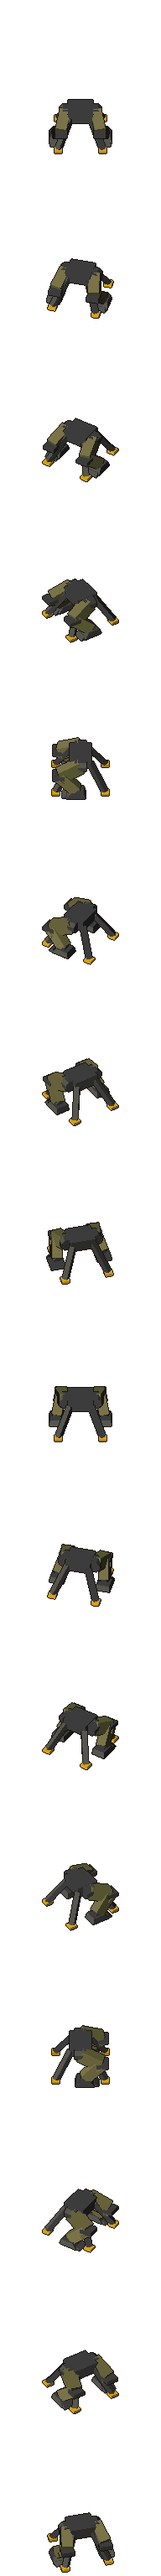
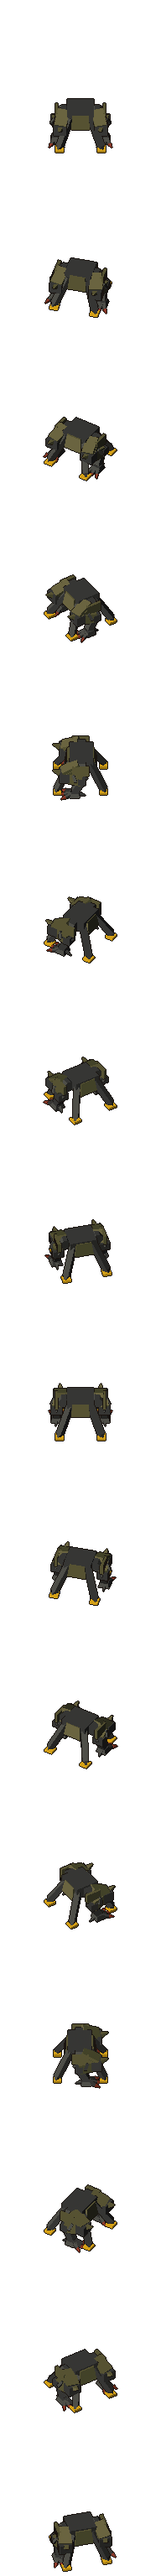
Titan: scarier war-machine redesign (live, deployed, wading, wreck)
Reverse-jointed legs with knee spurs, pistons and taloned feet; hunched
torso with a low wedge head and glowing red eye slits; horned pauldrons;
six-tube rocket pods with red warheads; a heavier cannon with collars,
fume extractor and slotted brake; dorsal fins and swept exhausts. Darker
gunmetal plate with rust accents. Same cells, contact line, scale and
layers, so no engine change. Wreck re-derived from the new live sheets.

diff --git a/tools/sprites/render_titan.py b/tools/sprites/render_titan.py
@@ -61,11 +61,13 @@ def hexc(s: str) -> tuple[int, int, int]:
 
 # Flat ramps, dark → light. Olive armor, dark steel, team-tint gray, accents.
 RAMPS: dict[str, list[tuple[int, int, int]]] = {
-    # Locked to the Walker sheet (walker-move.png): brown-olive plate, dark steel.
-    "armor": [hexc(c) for c in ("#242418", "#3c3c24", "#545430", "#66613a", "#7a7249")],
-    "steel": [hexc(c) for c in ("#181818", "#2a2a28", "#3c3c3c", "#56564f")],
+    # The Walker's brown-olive plate, taken a step darker: a gunmetal war machine.
+    "armor": [hexc(c) for c in ("#1c1c14", "#2e2e1e", "#424228", "#565232", "#6a6440")],
+    "steel": [hexc(c) for c in ("#141414", "#242422", "#363634", "#4e4e48")],
     "team": [hexc(c) for c in ("#4a4a46", "#6e6e68", "#8a8a83")],
-    "visor": [hexc(c) for c in ("#8b3a2a", "#c45a12", "#e07a2a")],
+    # Eye slits glow: no dark tone, so they read lit from every facing.
+    "visor": [hexc(c) for c in ("#d42a12", "#ff4a22", "#ff7a3a")],
+    "rust": [hexc(c) for c in ("#4a1e14", "#6b2a1a", "#8b3a2a")],
     "hazard": [hexc(c) for c in ("#6b5212", "#a37c14", "#d4a017")],
     "tube": [hexc(c) for c in ("#0e0c0a", "#1a1410")],
     # Flat water, locked to the infantry swim pool (infantry-swim.png).
@@ -130,6 +132,22 @@ class Mesh:
         # ring order: along u = bottom/top
         self.hexa([c[0], c[1], c[2], c[3], c[4], c[5], c[6], c[7]], mat)
 
+    def spike(self, a, b, half_w: float, half_d: float, mat: str, side=(0.0, 0.0, 1.0), tip: float = 0.12) -> None:
+        """Beam from a to b that tapers to a point at b (claws, horns, fins)."""
+        a = np.asarray(a, float)
+        b = np.asarray(b, float)
+        u = b - a
+        u /= np.linalg.norm(u)
+        s = np.asarray(side, float)
+        s = s - u * np.dot(s, u)
+        s /= np.linalg.norm(s)
+        w = np.cross(u, s)
+        c = []
+        for base, k in ((a, 1.0), (b, tip)):
+            for sx, wx in ((-1, -1), (1, -1), (1, 1), (-1, 1)):
+                c.append(base + (s * sx * half_w + w * wx * half_d) * k)
+        self.hexa(c, mat)
+
     def prism_x(self, x0, x1, cy, cz, r, mat: str, sides: int = 8) -> None:
         """Cylinder along +x."""
         ring = [(cy + r * math.cos(2 * math.pi * i / sides + math.pi / sides),
@@ -161,50 +179,76 @@ class Mesh:
 # Model axes: +x forward (nose), +y left, +z up. Ground contact at the origin.
 
 HIP_Z = 27.0
-THIGH = 15.0
-SHIN = 15.0
-ANKLE_Z = 4.0
-LEG_Y = 9.5
+THIGH = 13.5
+SHIN = 13.5
+ANKLE_Z = 2.6
+HOCK = np.array([-4.5, 0.0, 9.5])  # reverse joint: up and behind the ankle
+LEG_Y = 10.5
 STRIDE = 7.0
 LIFT = 4.5
 
 
-def knee_of(hip: np.ndarray, ankle: np.ndarray) -> np.ndarray:
-    d = ankle - hip
+def knee_of(hip: np.ndarray, hock: np.ndarray) -> np.ndarray:
+    """Two-bone IK, knee thrown forward (+x). With the hock behind it the leg reads bird-like."""
+    d = hock - hip
     dist = min(np.linalg.norm(d), THIGH + SHIN - 0.2)
     dn = d / np.linalg.norm(d)
     along = (THIGH ** 2 - SHIN ** 2 + dist ** 2) / (2 * dist)
     h = math.sqrt(max(0.0, THIGH ** 2 - along ** 2))
-    # perpendicular in the leg's x-z plane, toward +x (forward knee)
     perp = np.array([-dn[2], 0.0, dn[0]])
     if perp[0] < 0:
         perp = -perp
     return hip + dn * along + perp * h
 
 
+def add_foot(m: Mesh, ankle: np.ndarray, out: float) -> None:
+    """Three splayed talons and a rear spur around a heavy ankle pad."""
+    fx, fy = ankle[0], ankle[1]
+    fz = ankle[2] - ANKLE_Z
+    m.taper((fx - 3.2, fx + 3.4, fy - 3.4, fy + 3.4), (fx - 2.4, fx + 2.2, fy - 2.6, fy + 2.6), fz, fz + 2.8, "steel")
+    for ang in (-0.5, 0.0, 0.5):
+        d = np.array([math.cos(ang), math.sin(ang), 0.0])
+        base = np.array([fx, fy, fz + 1.3]) + d * 2.4
+        tip = np.array([fx, fy, fz]) + d * 9.0
+        m.spike(base, tip, 1.3, 1.5, "steel")
+        m.spike(tip - d * 2.2 + np.array([0, 0, 0.7]), tip + d * 0.9 + np.array([0, 0, -0.1]), 0.8, 0.9, "rust")  # claw tip
+    m.spike(np.array([fx - 1.5, fy, fz + 1.4]), np.array([fx - 6.5, fy + out * 0.6, fz]), 1.1, 1.2, "steel")
+
+
 def add_leg(m: Mesh, y: float, foot_x: float, lift: float, hip_z: float, foot_y: float | None = None) -> None:
     fy = y if foot_y is None else foot_y
+    out = 1.0 if y > 0 else -1.0
     hip = np.array([0.0, y, hip_z])
     ankle = np.array([foot_x, fy, ANKLE_Z + lift])
-    knee = knee_of(hip, ankle)
+    hock = ankle + HOCK
+    knee = knee_of(hip, hock)
     side = (0.0, 1.0, 0.0)
-    m.prism_x(-3.5, 3.5, y, hip_z, 4.0, "steel")  # hip actuator (along x reads as a drum)
-    m.beam(hip, knee, 3.4, 4.2, "armor", side)  # thigh
-    m.beam(knee + np.array([0.8, 0, 1.2]), knee - np.array([-0.8, 0, 1.6]), 3.8, 3.8, "steel", side)  # knee joint
-    m.beam(knee, ankle, 3.0, 3.6, "armor", side)  # shin
-    # shin guard, a plate on the front of the shin
-    mid = (knee + ankle) / 2
-    m.beam(knee + np.array([2.5, 0, -1.0]), mid + np.array([2.8, 0, 0]), 3.3, 1.3, "armor", side)
-    # foot: flat block with a sloped toe, heel spur
-    fx, fz = ankle[0], ankle[2] - ANKLE_Z
-    m.taper((fx - 5.5, fx + 6.5, fy - 4.5, fy + 4.5), (fx - 4.5, fx + 3.5, fy - 4.0, fy + 4.0), fz, fz + 3.6, "steel")
-    m.taper((fx + 6.5, fx + 9.0, fy - 4.0, fy + 4.0), (fx + 6.0, fx + 6.5, fy - 3.5, fy + 3.5), fz, fz + 2.0, "steel")
-    m.prism_x(fx - 2.0, fx + 2.0, fy, ankle[2], 2.4, "steel")  # ankle
+    m.prism_x(-3.2, 3.2, y, hip_z, 3.6, "steel")  # hip drum
+    m.box(-5.0, 5.0, y + out * 4.4 - 0.9, y + out * 4.4 + 0.9, hip_z - 3.5, hip_z + 3.0, "armor")  # hip guard
+    m.beam(hip, knee, 3.8, 4.6, "armor", side)  # thigh
+    m.beam(hip + (knee - hip) * 0.3 + np.array([0, out * 3.2, 0]), knee + np.array([0, out * 3.2, 0]) - (knee - hip) * 0.1,
+           1.0, 2.6, "armor", side)  # outer thigh plate
+    m.beam(knee + np.array([0, -4.0, 0]), knee + np.array([0, 4.0, 0]), 3.2, 3.2, "steel", side=(1.0, 0.0, 0.0))  # knee pin
+    m.spike(knee + np.array([-0.5, 0, 0.5]), knee + np.array([7.0, 0, 3.8]), 2.6, 2.2, "armor", side=(0.0, 1.0, 0.0))  # knee spur
+    m.beam(knee, hock, 2.9, 3.4, "armor", side)  # shin, running back to the hock
+    # hydraulic ram on the outside, thigh to shin
+    m.beam(hip + (knee - hip) * 0.45 + np.array([0, out * 4.6, 0]), knee + (hock - knee) * 0.65 + np.array([0, out * 3.8, 0]),
+           0.9, 0.9, "steel", side)
+    m.beam(hock + np.array([0, -3.2, 0]), hock + np.array([0, 3.2, 0]), 2.4, 2.4, "steel", side=(1.0, 0.0, 0.0))  # hock pin
+    m.spike(hock + np.array([0.5, 0, 0]), hock + np.array([-3.8, 0, 1.2]), 1.8, 1.8, "steel", side=(0.0, 1.0, 0.0))  # heel spur
+    m.beam(hock, ankle + np.array([0, 0, 0.6]), 2.0, 2.2, "steel", side)  # metatarsal
+    add_foot(m, ankle, out)
+
+
+def pelvis(m: Mesh, hz: float) -> None:
+    m.box(-8, 7, -8.5, 8.5, hz - 3.5, hz + 4, "steel")
+    m.taper((6, 9.5, -6, 6), (6, 8, -5, 5), hz - 6.5, hz + 3, "armor")  # groin plate
+    m.taper((-10, -7, -6, 6), (-8.5, -7, -5, 5), hz - 5.5, hz + 3, "armor")
 
 
 def legs_mesh(phase: float) -> Mesh:
     m = Mesh()
-    m.box(-7, 7, -8, 8, HIP_Z - 3, HIP_Z + 4, "steel")  # pelvis
+    pelvis(m, HIP_Z)
     for sign, ph in ((1, phase), (-1, phase + math.pi)):
         fx = STRIDE * math.sin(ph)
         lift = LIFT * max(0.0, math.cos(ph)) ** 1.5
@@ -216,18 +260,21 @@ BRACE_DROP = 8.0
 
 
 def braced_legs_mesh() -> Mesh:
+    """Deployed: crouched low, feet wide, four stabilizer claws driven into the ground."""
     m = Mesh()
     hz = HIP_Z - BRACE_DROP
-    m.box(-7, 7, -8, 8, hz - 3, hz + 4, "steel")
+    pelvis(m, hz)
     for sign in (1, -1):
-        add_leg(m, sign * LEG_Y, 2.5, 0.0, hz, foot_y=sign * 15.0)
-    # four outriggers, pelvis corners to planted pads
+        add_leg(m, sign * LEG_Y, 3.5, 0.0, hz, foot_y=sign * 15.0)
     for sx in (1, -1):
         for sy in (1, -1):
-            a = (sx * 6.0, sy * 6.5, hz)
-            b = (sx * 15.5, sy * 14.0, 1.6)
-            m.beam(a, b, 1.6, 1.6, "steel", side=(0.0, 0.0, 1.0))
-            m.box(b[0] - 2.4, b[0] + 2.4, b[1] - 2.4, b[1] + 2.4, 0.0, 1.8, "hazard")
+            a = np.array([sx * 6.0, sy * 6.5, hz])
+            b = np.array([sx * 14.5, sy * 13.0, 3.2])
+            m.beam(a, b, 1.8, 1.8, "steel", side=(0.0, 0.0, 1.0))
+            m.beam(a + (b - a) * 0.15 + np.array([0, 0, 1.6]), a + (b - a) * 0.75 + np.array([0, 0, 1.6]),
+                   0.7, 0.7, "steel", side=(0.0, 0.0, 1.0))  # ram along the strut
+            m.box(b[0] - 2.6, b[0] + 2.6, b[1] - 2.6, b[1] + 2.6, 0.0, 1.6, "hazard")  # pad
+            m.spike(b, b + np.array([sx * 1.6, sy * 1.6, -3.2]), 1.4, 1.4, "steel")  # spade biting in
     return m
 
 
@@ -265,49 +312,74 @@ def wade_legs_mesh(phase: float, frame: int) -> Mesh:
 
 
 def torso_mesh(dz: float = 0.0) -> Mesh:
+    """Hunched: the head sits low between the shoulders, pods ride above it."""
     m = Mesh()
     z = lambda v: v + dz  # noqa: E731
-    m.prism_z(0, 0, z(HIP_Z + 3), z(HIP_Z + 7), 7.0, "steel")  # waist ring
-    # hull: sloped glacis front, flat back
-    m.taper((-11, 12, -12, 12), (-11, 5, -10, 10), z(34), z(52), "armor")
-    m.taper((-11, 12, -12, 12), (-10, 11, -11.5, 11.5), z(HIP_Z + 6), z(34), "armor")
-    # cockpit + visor slit
-    m.taper((-3, 8, -6.5, 6.5), (-2, 5.5, -5.5, 5.5), z(52), z(58), "armor")
-    m.box(6.2, 7.6, -4.5, 4.5, z(54.2), z(55.8), "visor")
-    # mantlet on the chest (barrel lives on the gun sheet)
-    m.box(10.5, 16, -5.5, 5.5, z(36.5), z(45.5), "steel")
-    # shoulder pods with team panels on the outer face
+    m.prism_z(0, 0, z(HIP_Z + 3), z(HIP_Z + 7), 7.5, "steel")  # waist ring
+    m.taper((-9, 8, -9, 9), (-11, 11, -12, 12), z(HIP_Z + 6), z(37), "armor")  # abdomen flares up
+    m.taper((-11, 12.5, -12.5, 12.5), (-13, 7, -11, 11), z(37), z(50), "armor")  # chest, leaning forward
+    # ribbed vents on the lower chest
+    for k in range(3):
+        zz = 38.0 + k * 1.6
+        xf = 12.5 - (zz - 37) * 5.5 / 13
+        m.box(xf - 0.6, xf + 0.5, -10.0, -6.0, z(zz), z(zz + 0.8), "steel")
+        m.box(xf - 0.6, xf + 0.5, 6.0, 10.0, z(zz), z(zz + 0.8), "steel")
+    # head: low armored wedge, narrowing to the brow
+    m.taper((4, 15.5, -5, 5), (4, 12.5, -3.6, 3.6), z(44.5), z(50.5), "armor")
+    m.taper((7, 14, -5.2, 5.2), (8, 13.2, -5.0, 5.0), z(50.0), z(51.4), "armor")  # brow ridge
+    for yy in (-2.3, 2.3):  # two eye slits
+        m.box(13.2, 14.6, yy - 1.4, yy + 1.4, z(47.4), z(48.6), "visor")
+    m.box(14.2, 15.4, -1.0, 1.0, z(45.0), z(46.6), "visor")  # third, lower sensor
+    # mantlet (the barrel lives on the gun sheet)
+    m.taper((10.5, 18, -6.5, 6.5), (10.5, 16.5, -5.5, 5.5), z(35), z(45), "steel")
+    # pauldrons: heavy, with a horn swept back and out
     for sign in (1, -1):
-        y0, y1 = sorted((sign * 11.0, sign * 17.5))
-        m.taper((-8, 8, y0, y1), (-6, 5, y0 + (0.8 if sign < 0 else 0), y1 - (0.8 if sign > 0 else 0)), z(40), z(51), "armor")
-        py0, py1 = (sign * 17.5, sign * 18.2) if sign > 0 else (sign * 18.2, sign * 17.5)
-        m.box(-5, 4, py0, py1, z(42.5), z(48.5), "team")
-    # rocket pods on the shoulders: two tubes a side, mouths facing the nose
+        y0, y1 = sorted((sign * 11.0, sign * 20.0))
+        m.taper((-9, 9, y0, y1), (-7, 7, y0 + (1.0 if sign < 0 else 0), y1 - (1.0 if sign > 0 else 0)), z(39), z(52), "armor")
+        m.spike((1.0, sign * 18.0, z(50.5)), (-6.0, sign * 25.0, z(58.5)), 2.4, 2.0, "armor", side=(1.0, 0.0, 0.0))
+        m.box(6.5, 9.2, y0 + 0.5, y1 - 0.5, z(39.5), z(40.6), "rust")  # trim
+    # rocket pods: six tubes a side, red warheads in the mouths
     for sign in (1, -1):
-        y0, y1 = sorted((sign * 10.5, sign * 17.5))
-        m.taper((-6, 6, y0, y1), (-5, 5.5, y0 + 0.4, y1 - 0.4), z(51), z(57.5), "armor")
-        m.box(5.5, 6.6, y0 + 0.3, y1 - 0.3, z(51.3), z(57.2), "steel")  # front plate
-        for yy in (sign * 12.4, sign * 15.6):
-            m.prism_x(6.2, 7.4, yy, z(54.3), 1.35, "tube", sides=6)
-        m.box(-4.0, 3.0, y0 + 0.2, y1 - 0.2, z(57.5), z(57.9), "hazard")  # top stripe
-    # backpack power unit + exhaust stacks
-    m.box(-19.5, -10.5, -9, 9, z(35), z(50.5), "armor")
-    m.box(-20.2, -19.5, -6, 6, z(38), z(47), "steel")
-    for yy in (-5.0, 5.0):
-        m.prism_z(-16.0, yy, z(50.5), z(57.5), 1.9, "steel", sides=6)
+        y0, y1 = sorted((sign * 10.5, sign * 19.5))
+        m.box(-3.0, 3.0, y0 + 2.0, y1 - 2.0, z(51.5), z(53.0), "steel")  # pylon
+        m.taper((-8, 8, y0, y1), (-7, 7, y0 + 0.4, y1 - 0.4), z(53), z(61), "armor")
+        m.box(7.8, 8.9, y0 + 0.2, y1 - 0.2, z(53.2), z(60.8), "steel")  # face plate
+        for zz in (55.2, 58.8):
+            for yy in (sign * 12.6, sign * 15.0, sign * 17.4):
+                m.prism_x(8.6, 9.6, yy, z(zz), 1.1, "tube", sides=6)
+                m.prism_x(8.5, 9.2, yy, z(zz), 0.6, "rust", sides=6)
+        m.box(-6.0, 5.0, y0 + 1.2, y0 + 2.2, z(61), z(61.6), "steel")  # top rails
+        m.box(-6.0, 5.0, y1 - 2.2, y1 - 1.2, z(61), z(61.6), "steel")
+        py0, py1 = (sign * 19.5, sign * 20.2) if sign > 0 else (sign * 20.2, sign * 19.5)
+        m.box(-6, 6, py0, py1, z(55.6), z(58.4), "team")  # team panel, outer face
+    # reactor hump, dorsal fins, swept exhausts
+    m.taper((-21, -10, -9.5, 9.5), (-19.5, -11, -8, 8), z(35), z(52), "armor")
+    m.box(-21.8, -21.0, -6, 6, z(38), z(48), "steel")
+    for k, xx in enumerate((-11.5, -15.0, -18.5)):
+        m.spike((xx, 0.0, z(51.0)), (xx - 4.0, 0.0, z(58.5 - k * 1.2)), 0.7, 2.2, "armor", side=(0.0, 1.0, 0.0))
+    for yy in (-6.0, 6.0):
+        m.beam((-17.0, yy, z(50.0)), (-21.0, yy * 1.15, z(58.5)), 1.9, 1.9, "steel")
+        m.beam((-20.8, yy * 1.15, z(58.0)), (-21.2, yy * 1.15, z(59.0)), 1.4, 1.4, "tube")
     return m
 
 
 GUN_Z = 41.0
-MUZZLE_X = 43.0
+MUZZLE_X = 44.0
 
 
 def gun_mesh(dz: float = 0.0) -> Mesh:
     m = Mesh()
     zc = GUN_Z + dz
-    m.prism_x(15.5, 23.0, 0.0, zc, 2.8, "steel")  # recoil sleeve
-    m.prism_x(23.0, MUZZLE_X - 3.5, 0.0, zc, 1.8, "steel")  # long barrel
-    m.box(MUZZLE_X - 4.0, MUZZLE_X, -3.0, 3.0, zc - 2.2, zc + 2.2, "steel")  # muzzle brake
+    m.prism_x(16.0, 24.0, 0.0, zc, 3.6, "steel")  # recoil housing
+    for x0 in (17.0, 22.2):
+        m.prism_x(x0, x0 + 1.2, 0.0, zc, 4.1, "steel")  # collars
+    m.prism_x(24.0, MUZZLE_X - 5.0, 0.0, zc, 2.3, "steel")  # long barrel
+    m.prism_x(29.0, 34.0, 0.0, zc, 3.0, "steel")  # fume extractor
+    m.prism_x(29.6, 30.4, 0.0, zc, 3.2, "rust")  # band
+    # slotted brake: two baffles with the bore between
+    m.box(MUZZLE_X - 5.0, MUZZLE_X - 3.0, -3.4, 3.4, zc - 2.4, zc + 2.4, "steel")
+    m.prism_x(MUZZLE_X - 3.0, MUZZLE_X - 2.0, 0.0, zc, 2.0, "steel")
+    m.box(MUZZLE_X - 2.0, MUZZLE_X, -3.4, 3.4, zc - 2.4, zc + 2.4, "steel")
     return m
 
 
